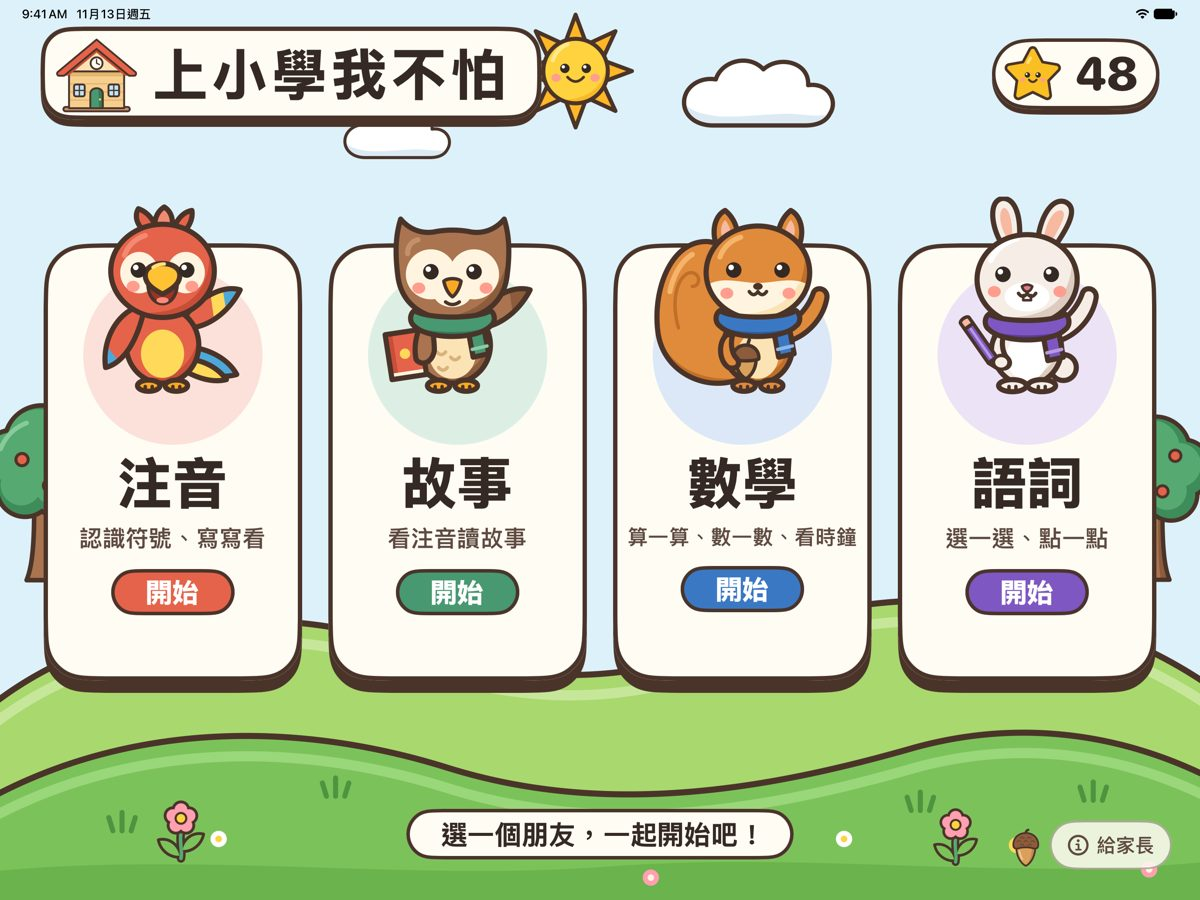
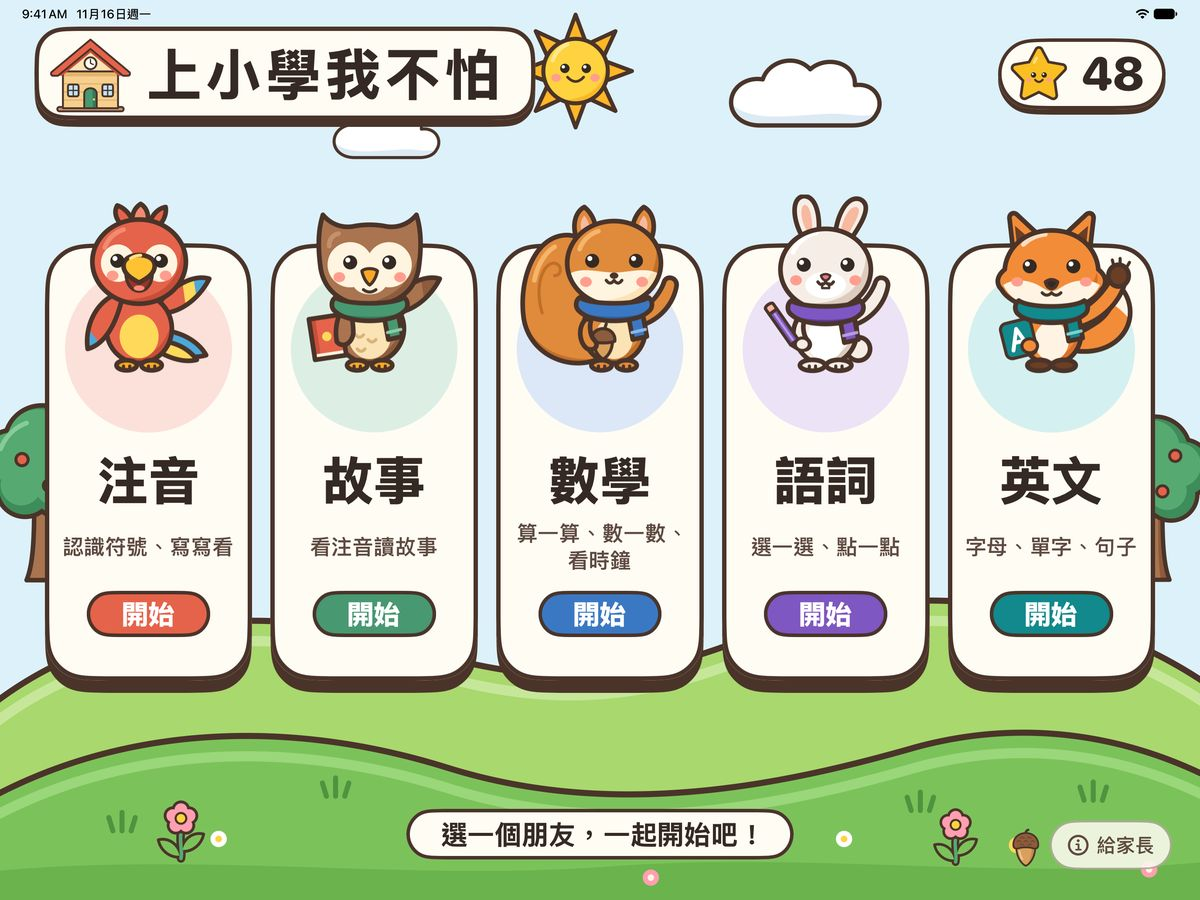
上小學我不怕：更新成 1.1.0 的內容（五個單元）
- App 簡介：加入英文單元、數學三個年級的直式、20 篇故事、語詞 250 題
- 隱私權政策：補英文單元與字型聲明
- 支援頁：常見問題對應新版
- 首頁截圖換成五張卡的新圖

來源：kids-learning main 的 site/（ae3bb15）

diff --git a/index.html b/index.html
@@ -4,7 +4,7 @@
 <meta charset="utf-8">
 <meta name="viewport" content="width=device-width, initial-scale=1">
 <title>上小學我不怕</title>
-<meta name="description" content="給準備上小學與一年級孩子的學習 App：注音、注音故事、語詞、數學。完全離線、不收集任何資料、沒有廣告與內購。">
+<meta name="description" content="給準備上小學與一、二年級孩子的學習 App（數學另有三年級直式）：注音、注音故事、語詞、數學、英文。完全離線、不收集任何資料、沒有廣告與內購。">
 <link rel="icon" href="img/app-icon.svg" type="image/svg+xml">
 <link rel="stylesheet" href="style.css">
 </head>
@@ -17,7 +17,7 @@
       <img src="img/app-icon.svg" alt="上小學我不怕的 App 圖示">
       <div>
         <h1>上小學我不怕</h1>
-        <p>注音、故事、語詞、數學，陪孩子準備上小學</p>
+        <p>注音、故事、語詞、數學、英文，陪孩子準備上小學</p>
       </div>
     </div>
     <nav class="pages" aria-label="頁面">
@@ -30,7 +30,7 @@
 
 <main>
   <section class="summary">
-    <p>「上小學我不怕」是給準備上小學、和剛上一年級的孩子用的學習 App，適用 iPad 與 iPhone（橫向）。四位動物朋友帶孩子練注音、讀注音故事、認識語詞、算數學和看時鐘。</p>
+    <p>「上小學我不怕」是給準備上小學、和剛上一、二年級的孩子用的學習 App（數學另有三年級的直式練習），適用 iPad 與 iPhone（橫向）。五位動物朋友帶孩子練注音、讀注音故事、認識語詞、算數學和看時鐘，還有英文字母、單字和句子。</p>
   </section>
 
   <div class="modules">
@@ -44,23 +44,35 @@
     <section class="module story">
       <div class="head"><img src="img/owl-wave.svg" alt=""><h2>故事</h2></div>
       <ul>
-        <li>8 篇有注音的短故事，國字旁邊都標好注音。</li>
+        <li>20 篇有注音的短故事，國字旁邊都標好注音；分「生活故事」和「經典故事」（烏鴉喝水、龜兔賽跑、三隻小豬等寓言與民間故事）兩區。</li>
         <li>可以一句一句念給孩子聽、點一個字聽它的讀音；字可以調大。</li>
       </ul>
     </section>
     <section class="module math">
       <div class="head"><img src="img/squirrel-wave.svg" alt=""><h2>數學</h2></div>
       <ul>
-        <li>加法和減法：10 以內或 18 以內（個位數相加減，含進位、退位），可以開圓點提示。</li>
+        <li>一年級加法和減法：10 以內或 18 以內（個位數相加減，含進位、退位），可以開圓點提示。</li>
         <li>數一數、比大小、排第幾個、看時鐘、時鐘走一圈。</li>
         <li>認識時鐘：按「長針走一圈」看長針和短針怎麼走，可以切換整點和半點。</li>
+        <li>二年級：九九乘法、乘法填空、乘法的意思、乘法應用題、幾時幾分、經過多久、兩步驟的加減、比大小與數方格，以及直式加法、直式減法、直式乘法。</li>
+        <li>三年級：直式加法、直式減法、直式乘法，數字到百位、千位。</li>
+        <li>年級依 108 課綱並參考孩子實際的學習進度分類。</li>
+        <li>數學題目預設不念出來，讓孩子自己讀題目；按喇叭鈕才念，答錯時的提示照樣會念。</li>
       </ul>
     </section>
     <section class="module language">
       <div class="head"><img src="img/rabbit-wave.svg" alt=""><h2>語詞</h2></div>
       <ul>
-        <li>你我他、量詞、選字詞、標點、部首、語詞填空，共 6 組 122 題。</li>
+        <li>你我他、量詞、選字詞、標點、部首、語詞填空，共 6 組 250 題。</li>
         <li>題目都有注音，做完一題會把完整句子念一遍。</li>
+      </ul>
+    </section>
+    <section class="module english">
+      <div class="head"><img src="img/fox-wave.svg" alt=""><h2>英文</h2></div>
+      <ul>
+        <li>26 個字母：看大寫、小寫，聽字母和發音，在四線格上描描看；也可以聽聲音手寫字母，考考自己。</li>
+        <li>一、二年級常用的單字和句子，分「一年級」「二年級」和「挑戰」，依主題用字卡學習，再做聽音選圖、拼字、句子重組等測驗。</li>
+        <li>用清楚好認的印刷體（和學校教的寫法一樣），不教草寫；字母、單字和句子都有朗讀。</li>
       </ul>
     </section>
   </div>

diff --git a/privacy.html b/privacy.html
@@ -46,15 +46,22 @@
   <section>
     <h2>手寫筆畫</h2>
     <p>孩子在注音手寫格寫的筆畫，只在裝置上即時辨識是哪一個注音符號，辨識完就丟棄，不會儲存，也不會傳出裝置。</p>
+    <p>英文單元的手寫字母測驗也一樣：在四線格上寫的字母只在裝置上辨識是哪一個字母、大寫還是小寫，不會儲存，也不會傳出裝置。</p>
   </section>
 
   <section>
     <h2>存在裝置上的資料</h2>
     <ul>
       <li><strong>學習進度：</strong>星星數、各符號答對答錯的次數、各組練習的最佳星數與完成次數、讀過的故事。</li>
-      <li><strong>設定：</strong>例如故事的字級、數學的圓點提示開關。</li>
+      <li><strong>設定：</strong>例如故事的字級、數學的圓點提示開關、英文選單上次選的區（字母、單字、句子）與年級。</li>
     </ul>
     <p>以上資料只存在這台裝置上，開發者看不到也拿不到。刪除 App 時會一併清除。如果你開啟 Apple 的裝置備份，這些資料會包含在你自己的備份裡，開發者一樣看不到。</p>
+  </section>
+
+  <section>
+    <h2>英文單元與內建字型</h2>
+    <p>英文單元有 26 個字母（大寫、小寫、發音、描寫與手寫測驗）和一、二年級常用的單字與句子。英文的朗讀和其他單元一樣，是預先合成好、放在 App 裡的音檔，播放時不連網路；英文單元也沒有收集任何資料。</p>
+    <p>英文單元的印刷體使用 SIL International 的 Andika 字型，採 SIL 開放字型授權（SIL Open Font License 1.1）。授權全文隨 App 一起安裝，App 內「給家長」頁也有這項聲明。</p>
   </section>
 
   <section>

diff --git a/style.css b/style.css
@@ -16,6 +16,8 @@
   --math-light: #dce8f7;
   --language: #7e57c2;
   --language-light: #ece3f7;
+  --english: #12898c;
+  --english-light: #d5f0f0;
   --sunny: #ffd23f;
   --grass: #8fcf6a;
   --grass-deep: #6fb551;
@@ -94,7 +96,7 @@ a { color: #2c5f9e; }
 .muted { color: var(--ink-soft); font-size: 15px; }
 code, .addr { font-family: ui-monospace, SFMono-Regular, Menlo, monospace; font-size: .95em; word-break: break-all; }
 
-/* 四個單元卡 */
+/* 五個單元卡（第五張英文橫跨兩欄） */
 .modules { display: grid; grid-template-columns: repeat(2, minmax(0, 1fr)); gap: 18px; margin: 0 0 24px; }
 .module { margin: 0; padding: 16px 16px 14px; text-align: left; }
 .module .head { display: flex; align-items: center; gap: 12px; margin-bottom: 4px; }
@@ -104,10 +106,13 @@ code, .addr { font-family: ui-monospace, SFMono-Regular, Menlo, monospace; font-
 .module.story .head img { background: var(--story-light); }
 .module.math .head img { background: var(--math-light); }
 .module.language .head img { background: var(--language-light); }
+.module.english .head img { background: var(--english-light); }
+.module.english { grid-column: 1 / -1; }
 .module.zhuyin h2 { color: #b8432e; }
 .module.story h2 { color: #2f6e50; }
 .module.math h2 { color: #2c5f9e; }
 .module.language h2 { color: #5e3a9a; }
+.module.english h2 { color: #0b6467; }
 
 /* 截圖 */
 .shots { display: grid; grid-template-columns: repeat(2, minmax(0, 1fr)); gap: 14px; }

diff --git a/support.html b/support.html
@@ -35,8 +35,8 @@
     <h3>需要網路或帳號嗎？</h3>
     <p>都不需要。下載後就能離線使用，所有功能（包括朗讀與手寫辨識）都在裝置上執行。</p>
 
-    <h3>手寫的符號明明寫對了，卻被判錯？</h3>
-    <p>手寫辨識難免出錯。判定結果出來後，家長可以在鸚鵡波波的對話泡泡上長按約 1 秒改判（對改錯、錯改對），避免孩子寫對卻被判錯而受挫。畫面上沒有改判的按鈕，孩子不會自己按到。寫的時候盡量寫在格子中間、寫大一點，辨識會比較準。</p>
+    <h3>手寫的符號或字母明明寫對了，卻被判錯？</h3>
+    <p>手寫辨識難免出錯。判定結果出來後，家長可以在角色的對話泡泡上（注音是鸚鵡波波、英文字母是狐狸奇奇）長按約 1 秒改判（對改錯、錯改對），避免孩子寫對卻被判錯而受挫。畫面上沒有改判的按鈕，孩子不會自己按到。寫的時候盡量寫在格子中間、寫大一點，辨識會比較準。</p>
 
     <h3>聽不到聲音？</h3>
     <p>請確認音量已調大，沒有連著藍牙耳機或喇叭。</p>
